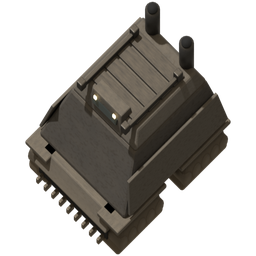
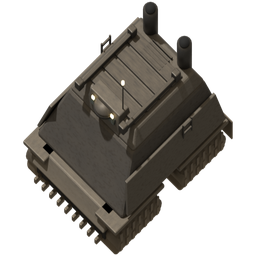
Grafik: Ernter mit Raupenketten und Details, eigene Mk2-Grafik (#11)
- ernter-modell.py: Leitern, Staubschürzen, Kühlgitter, Einfüllluke, Antenne; Kettenglieder an den Raupen,
  Teil anim rendert nur die Raupen (4 Bilder je Richtung, halbe Auflösung, Rumpf als Aussparung).
  ARRAKIS_VARIANTE=mk2: Wurmzahn-Klingen am Maul, hellere Panzerplatten, Schürzenpanzer, dritter Schlot.
- prototypes/harvester.lua: Raupen als 4. Ebene, Rumpf/Maske/Schatten repeat_count 4.
- prototypes/harvester-mk2.lua: eigene Blätter und Symbole statt Farbton (Lastbild am Flieger bleibt getönt).
- checks.lua: Ebenen von Mk1 und Mk2 nach neuem Stand.

Claude-Session: https://claude.ai/code/session_01J2MjAmJWasrD5f8xu4ngfp

Changed region(s): [[0.0938, 0.0, 0.875, 1.0], [0.6875, 0.4375, 0.9375, 0.75], [0.5938, 0.25, 0.625, 0.2812]]

diff --git a/tools/grafik/ernter-modell.py b/tools/grafik/ernter-modell.py
@@ -1,8 +1,12 @@
 # Spice-Ernter aus einfachen Formen, gerendert wie Factorio-Fahrzeuge (Ortho, 45 Grad, Licht von links oben).
-# Aufruf: python ernter-modell.py ROH_DIR MODUS [richtungen]  (Python mit dem Modul bpy, pip install bpy)
+# Aufruf: python ernter-modell.py ROH_DIR MODUS [richtungen] [teil]  (Python mit dem Modul bpy, pip install bpy)
+# teil "anim": nur die Raupen (Rumpf als Aussparung), 4 Bilder je Richtung, Kettenglieder laufen (Grafik-Phase).
+# Umgebungsvariable ARRAKIS_VARIANTE=mk2: Ernter Mk2 (Wurmzahn-Klingen am Maul, hellere Panzerplatten, dritter Schlot).
 # MODUS: vorschau (mit Schatten, 7 Kacheln), base (ohne Boden), shadow (nur Schatten, 32 px je Kachel),
 #        mask (Farbmaske für die Spielerfarbe), icon (eine Schrägansicht für Symbole).
 import math, os, sys
+VARIANTE = os.environ.get("ARRAKIS_VARIANTE", "mk1")
+MK2 = VARIANTE == "mk2"
 sys.path.insert(0, os.path.dirname(os.path.abspath(__file__)))
 import szene
 from szene import mat, box, cyl, slab
@@ -12,7 +16,10 @@ szene.start("harvester", {"vorschau": 7, "shadow": 8, "default": 6}, ("skirt", "
 
 
 HULL = mat("hull", (0.085, 0.08, 0.075), 0.7, 0.3)       # dunkles, warmes Metall
-HULL2 = mat("hull2", (0.14, 0.13, 0.115), 0.7, 0.3)      # hellere Panzerplatten
+HULL2 = mat("hull2", (0.25, 0.26, 0.27) if MK2 else (0.14, 0.13, 0.115), 0.6, 0.45)   # hellere Panzerplatten
+IVORY = mat("ivory", (0.80, 0.76, 0.64), 0.3, 0.0, False)   # Wurmzahn (Mk2)
+LINK = mat("link", (0.13, 0.12, 0.11), 0.6, 0.5)
+RUBBER = mat("rubber", (0.035, 0.032, 0.03), 0.95, 0.0)
 STEEL = mat("steel", (0.06, 0.06, 0.06), 0.5, 0.5)
 TRACK = mat("track", (0.06, 0.055, 0.05), 0.9, 0.3)
 GLASS = mat("glass", (0.08, 0.10, 0.10), 0.1, 0.2, False)
@@ -24,6 +31,7 @@ MAW = mat("maw", (0.02, 0.02, 0.02), 0.9, 0.0, False)
 # Maße in Kacheln (1 Kachel = 1 m). Vorne = -Y (Factorio-Norden). Breit und flach: 2,4 x 3,2.
 L, W = 3.2, 2.4
 # Vier Raupen an den Ecken, schräg gestellte Laufwerke
+TRACKS = []
 for sx in (-1, 1):
     for sy in (-1, 1):
         x = sx * (W / 2 - 0.25)
@@ -33,6 +41,7 @@ for sx in (-1, 1):
         for k in range(-2, 3):
             cyl(f"wheel{sx}{sy}{k}", 0.11, 0.52, (x, y + k * 0.24, 0.18), STEEL, rot=(0, math.pi / 2, 0), verts=12)
         box(f"fender{sx}{sy}", (0.56, 1.3, 0.06), (x, y, 0.47), HULL2, 0.02)
+        TRACKS.append((sx, sy, x, y))
 # Rumpf: breiter, flacher Keil über den Raupen, vorne lang abgeschrägt
 slab("hull", (-W / 2 + 0.05, W / 2 - 0.05, -L / 2 + 0.35, L / 2 - 0.1), (-W / 2 + 0.35, W / 2 - 0.35, -L / 2 + 0.95, L / 2 - 0.35),
      0.5, 1.15, HULL, 0.05)
@@ -67,4 +76,51 @@ for sx in (-1, 1):
     for sy in (-1, 1):
         box(f"clamp{sx}{sy}", (0.14, 0.14, 0.12), (sx * 0.58, 0.05 + sy * 0.7, 1.42), STEEL, 0.02)
 
-szene.render()
+# Details (Grafik-Phase): Leitern an den Flanken, Staubschürzen hinter den Raupen, Kühlgitter, Einfüllluke, Antenne
+for sx in (-1, 1):
+    for k in range(4):
+        box(f"rung{sx}{k}", (0.03, 0.22, 0.025), (sx * (W / 2 - 0.12), 0.55, 0.62 + k * 0.13), STEEL, 0.0)
+    for sy in (-1, 1):
+        box(f"rungrail{sx}{sy}", (0.03, 0.025, 0.5), (sx * (W / 2 - 0.12), 0.55 + sy * 0.11, 0.8), STEEL, 0.0)
+    box(f"flap{sx}", (0.5, 0.03, 0.32), (sx * (W / 2 - 0.25), L / 2 + 0.02, 0.2), RUBBER, 0.01)
+for k in range(5):
+    box(f"grill{k}", (0.5, 0.035, 0.03), (0, L / 2 - 0.95 + k * 0.08, 1.34), STEEL, 0.0)
+cyl("hatch", 0.2, 0.05, (0, -0.55, 1.35), HULL2, verts=24)
+cyl("hatchrim", 0.22, 0.03, (0, -0.55, 1.33), STEEL, verts=24)
+cyl("antenna", 0.012, 0.5, (0.32, -L / 2 + 1.2, 1.65), STEEL, verts=6)
+cyl("antennatip", 0.03, 0.04, (0.32, -L / 2 + 1.2, 1.9), LAMP, verts=8)
+if MK2:
+    # Wurmzahn-Klingen vor dem Maul, Panzer auf den Schürzen, dritter Schlot
+    for k in range(7):
+        box(f"blade{k}", (0.09, 0.3, 0.1), (-0.72 + k * 0.24, -L / 2 - 0.05, 0.14), IVORY, 0.02,
+            rot=(math.radians(-15), 0, 0))
+    for sx in (-1, 1):
+        for k in range(3):
+            box(f"skirtplate{sx}{k}", (0.05, 0.6, 0.22), (sx * (W / 2 - 0.08), -0.8 + k * 0.75, 0.78), HULL2, 0.02,
+                rot=(0, sx * math.radians(-25), 0))
+    cyl("vent0", 0.14, 0.45, (0, L / 2 - 0.5, 1.45), STEEL, verts=16)
+    cyl("ventin0", 0.1, 0.05, (0, L / 2 - 0.5, 1.68), MAW, verts=16)
+
+# Raupenketten (Grafik-Phase): Kettenglieder als Querstege an der Außenseite jeder Raupe; die obere Reihe läuft bei
+# Vorwärtsfahrt nach vorn, die untere nach hinten. Bild 0 ist die Lage des Standbilds (Rumpfblatt).
+STEP = 0.16
+links = []
+for sx, sy, x, y in TRACKS:
+    for row, (z, sign) in enumerate(((0.3, -1), (0.12, 1))):
+        for k in range(7):
+            o = box(f"link{sx}{sy}{row}{k}", (0.025, 0.06, 0.13), (x + sx * 0.258, 0, z), LINK, 0.0)
+            links.append((o, y, k, sign))
+for sx, sy, x, y in TRACKS:
+    for name in [f"track{sx}{sy}", f"fender{sx}{sy}"] + [f"wheel{sx}{sy}{k}" for k in range(-2, 3)]:
+        szene.WING_PARTS.append(next(o for o in szene.scene.objects if o.name == name))
+szene.WING_PARTS.extend(o for o, *_ in links)
+
+
+def raupen(f):
+    off = STEP * f / szene.FLAP_FRAMES
+    for o, y, k, sign in links:
+        o.location.y = y - 0.5 + ((k * STEP - sign * off) % (7 * STEP)) + 0.02
+
+
+raupen(0)
+szene.render(pose=raupen)

diff --git a/tools/grafik/szene.py b/tools/grafik/szene.py
@@ -12,7 +12,8 @@ OUT = None
 PX_PER_TILE = None
 FRAME_TILES = None
 MASK_PREFIXES = ()
-# Teil (4. Argument): "alles" (Vorgabe), "schlag" (alles, mit Flügelschlag; zum Ansehen), "rumpf" (ohne Flügel; sie werfen aber Schatten) oder "fluegel" (nur die Flügel,
+# Teil (4. Argument): "alles" (Vorgabe), "schlag" (alles, mit Bewegung; zum Ansehen), "anim" (wie "fluegel" für
+# die Teile in WING_PARTS, z. B. Raupenketten), "rumpf" (ohne Flügel; sie werfen aber Schatten) oder "fluegel" (nur die Flügel,
 # Rumpf als Aussparung, halbe Auflösung, FLAP_FRAMES Bilder je Richtung). Siehe fluegel_vorbereiten().
 TEIL = "alles"
 FLAP_FRAMES = 4
@@ -29,7 +30,7 @@ def start(name, frame_tiles, mask_prefixes):
     DIRS = int(sys.argv[3]) if len(sys.argv) > 3 else 8
     TEIL = sys.argv[4] if len(sys.argv) > 4 else "alles"
     PX_PER_TILE = {"shadow": 32, "icon": 128}.get(MODE, 64)   # Fahrzeug als HR-Grafik, Schatten halb so fein
-    if TEIL == "fluegel" and MODE in ("base", "mask"):
+    if TEIL in ("fluegel", "anim") and MODE in ("base", "mask"):
         PX_PER_TILE = 32                                          # Flügelschlag in halber Auflösung
     FRAME_TILES = frame_tiles.get(MODE, frame_tiles["default"])
     MASK_PREFIXES = mask_prefixes
@@ -236,7 +237,7 @@ def render(lift=0.0, frames=0, pose=None, icon_frame=0):
     if TEIL == "rumpf":
         for o in wing:
             o.visible_camera = False      # Flügel fehlen im Bild, werfen aber Schatten auf den Rumpf
-    if TEIL == "fluegel":
+    if TEIL in ("fluegel", "anim"):
         for o in parts:
             if o not in wing:
                 o.is_holdout = True       # Rumpf verdeckt die Flügel dahinter, erscheint aber selbst nicht
@@ -307,7 +308,7 @@ def render(lift=0.0, frames=0, pose=None, icon_frame=0):
         return
 
     turns = [5] if MODE == "icon" else range(DIRS)
-    flaps = FLAP_FRAMES if (TEIL in ("fluegel", "schlag") and pose and MODE != "icon") else 0
+    flaps = FLAP_FRAMES if (TEIL in ("fluegel", "anim", "schlag") and pose and MODE != "icon") else 0
     for i in turns:
         # Richtung i: 0 = Norden, im Uhrzeigersinn (Factorio-Reihenfolge der 64 Richtungen)
         root.rotation_euler = (0, 0, -2 * math.pi * i / (8 if MODE == "icon" else DIRS))

diff --git a/tools/grafik/README.md b/tools/grafik/README.md
@@ -139,3 +139,22 @@ python pack.py roh8-NAME blaetter8 NAME
 NAME: `spice-sand`, `melange`, `spice-essence`, `spice-briquette`, `spice-science-pack`. `NAME-icon-64.png` kommt nach
 `graphics/icons/NAME.png` (Item, beim Spice-Sand auch die Ressource). Raffinerie und Windfalle behalten ihre getönten
 Vanilla-Symbole, weil ihre Gebäude Vanilla-Grafik zeigen.
+
+## Ernter mit Raupenketten und Mk2 (Grafik-Phase)
+
+```
+python ernter-modell.py roh base 64          # ebenso mask, shadow, icon
+python ernter-modell.py roh9 base 64 anim    # Raupenketten, 4 Bilder je Richtung
+python pack.py roh blaetter harvester
+python pack.py roh9 blaetter harvester-tracks 16
+```
+
+Mit `ARRAKIS_VARIANTE=mk2` entsteht der Ernter Mk2 (Wurmzahn-Klingen am Maul, hellere Panzerplatten, Panzer auf den
+Schürzen, dritter Schlot); Name in `pack.py` dann `harvester-mk2` bzw. `harvester-mk2-tracks`, Ziel
+`graphics/entity/spice-harvester-mk2/`, Symbole `graphics/icons|technology/spice-harvester-mk2.png`.
+
+Das Rumpfblatt enthält die Raupen in Bild 0 (das Lastbild am Flieger nimmt seine Ausschnitte daraus). Die Raupen-Ebene
+(`anim`, Rumpf als Aussparung, halbe Auflösung 192 px, `scale = 1`, 16 Bilder je Zeile) liegt darüber; ihre
+Kettenglieder an den Außenseiten laufen oben nach vorn und unten nach hinten. Rumpf, Farbmaske und Schatten bekommen
+`repeat_count = 4`. Achtung: `szene.box` backt Lage und Drehung ins Netz (`transform_apply`); Teile, die eine Pose
+bewegt, deshalb am Ursprung anlegen und erst danach verschieben.
